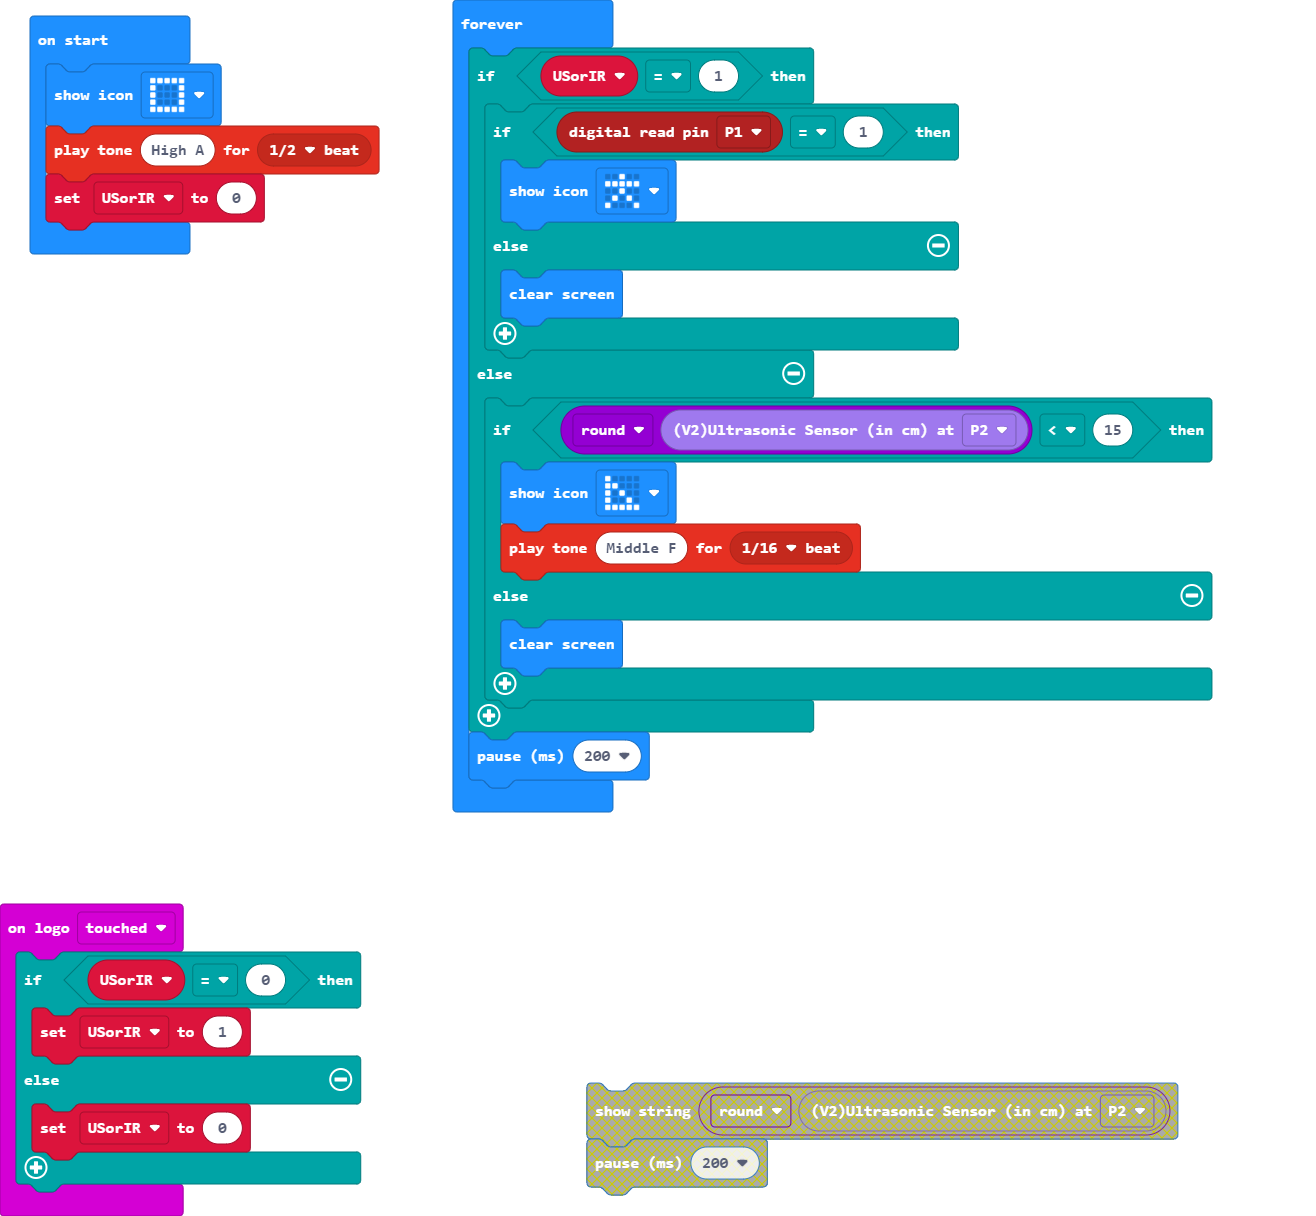
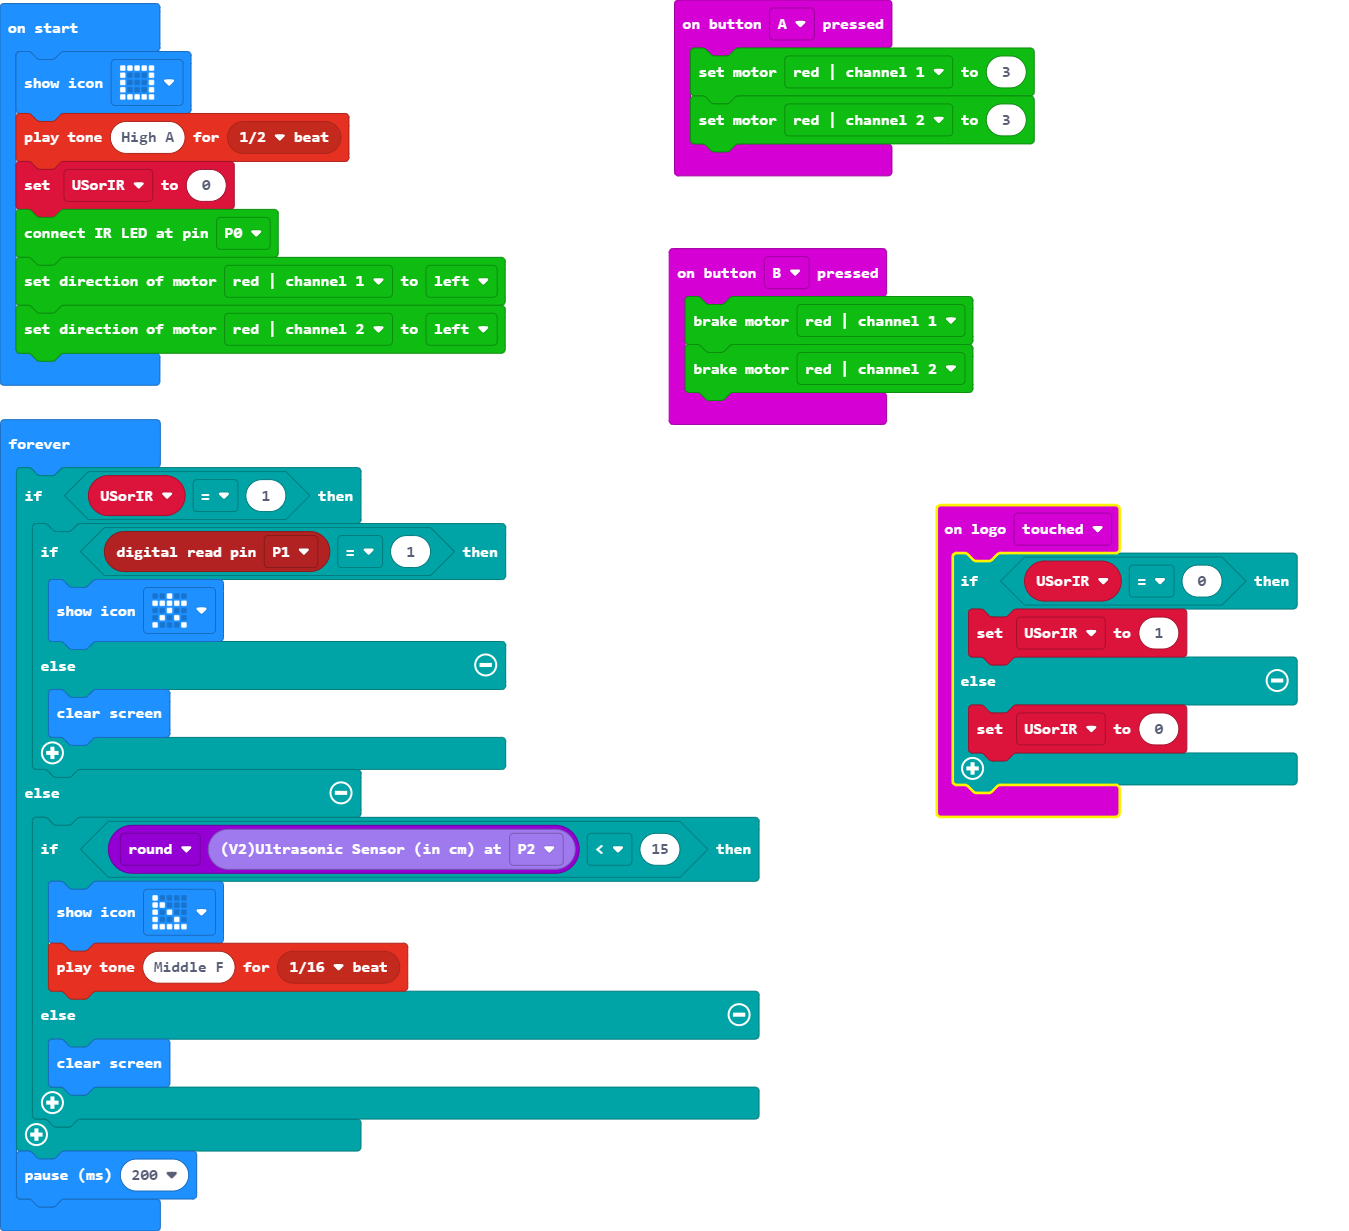
added IR for Lego power functions

diff --git a/main.ts b/main.ts
@@ -1,3 +1,11 @@
+input.onButtonPressed(Button.A, function () {
+    powerfunctions.setSpeed(PowerFunctionsMotor.Red1, 3)
+    powerfunctions.setSpeed(PowerFunctionsMotor.Red2, 3)
+})
+input.onButtonPressed(Button.B, function () {
+    powerfunctions.brake(PowerFunctionsMotor.Red1)
+    powerfunctions.brake(PowerFunctionsMotor.Red2)
+})
 input.onLogoEvent(TouchButtonEvent.Touched, function () {
     if (USorIR == 0) {
         USorIR = 1
@@ -9,6 +17,9 @@ let USorIR = 0
 basic.showIcon(IconNames.Square)
 music.playTone(880, music.beat(BeatFraction.Half))
 USorIR = 0
+powerfunctions.connectIrLed(AnalogPin.P0)
+powerfunctions.setMotorDirection(PowerFunctionsMotor.Red1, PowerFunctionsDirection.Left)
+powerfunctions.setMotorDirection(PowerFunctionsMotor.Red2, PowerFunctionsDirection.Left)
 basic.forever(function () {
     if (USorIR == 1) {
         if (pins.digitalReadPin(DigitalPin.P1) == 1) {
